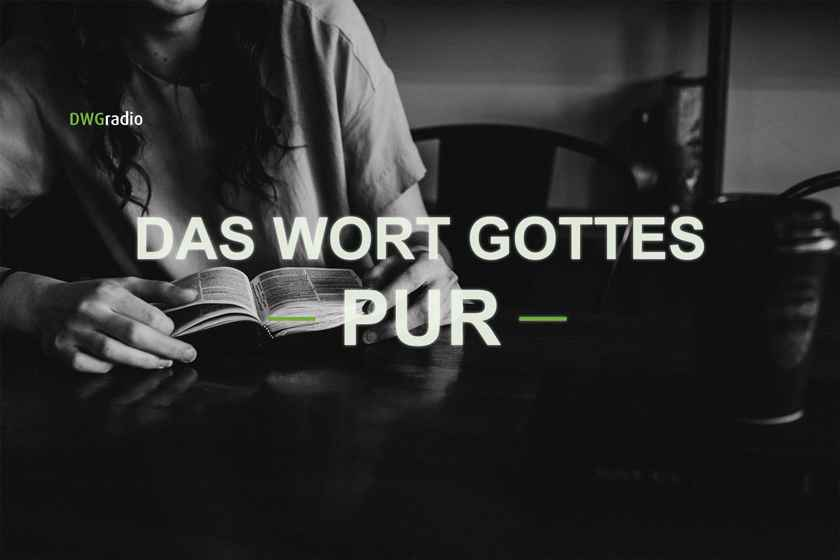
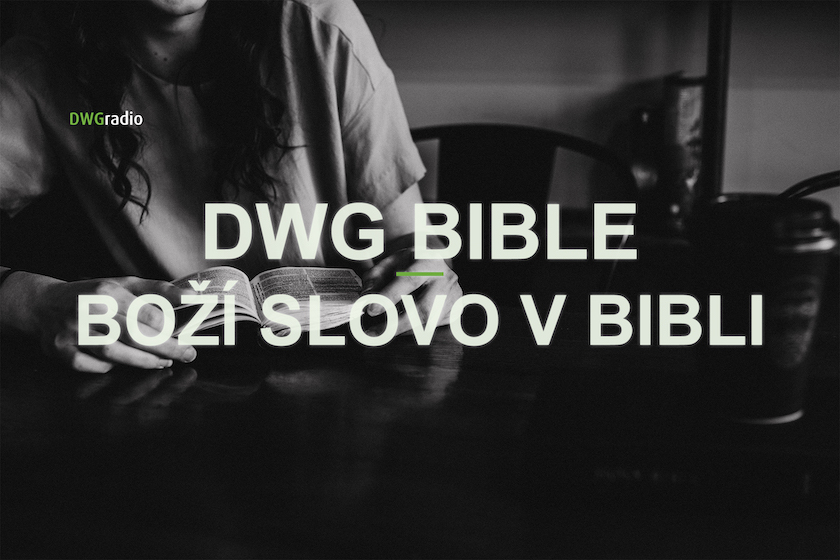
Add CZ config and assets

Changed region(s): [[0.0929, 0.3339, 0.9286, 0.6375], [0.0619, 0.1821, 0.1857, 0.2429]]

diff --git a/src/stores/rootStore.ts b/src/stores/rootStore.ts
@@ -16,8 +16,8 @@ class RootStore {
   playerStore: PlayerStore;
 
   config: Config = {
-    configBase: configBase.de,
-    configStrings: configStrings.de,
+    configBase: configBase.cz,
+    configStrings: configStrings.cz,
   };
 
   constructor() {
